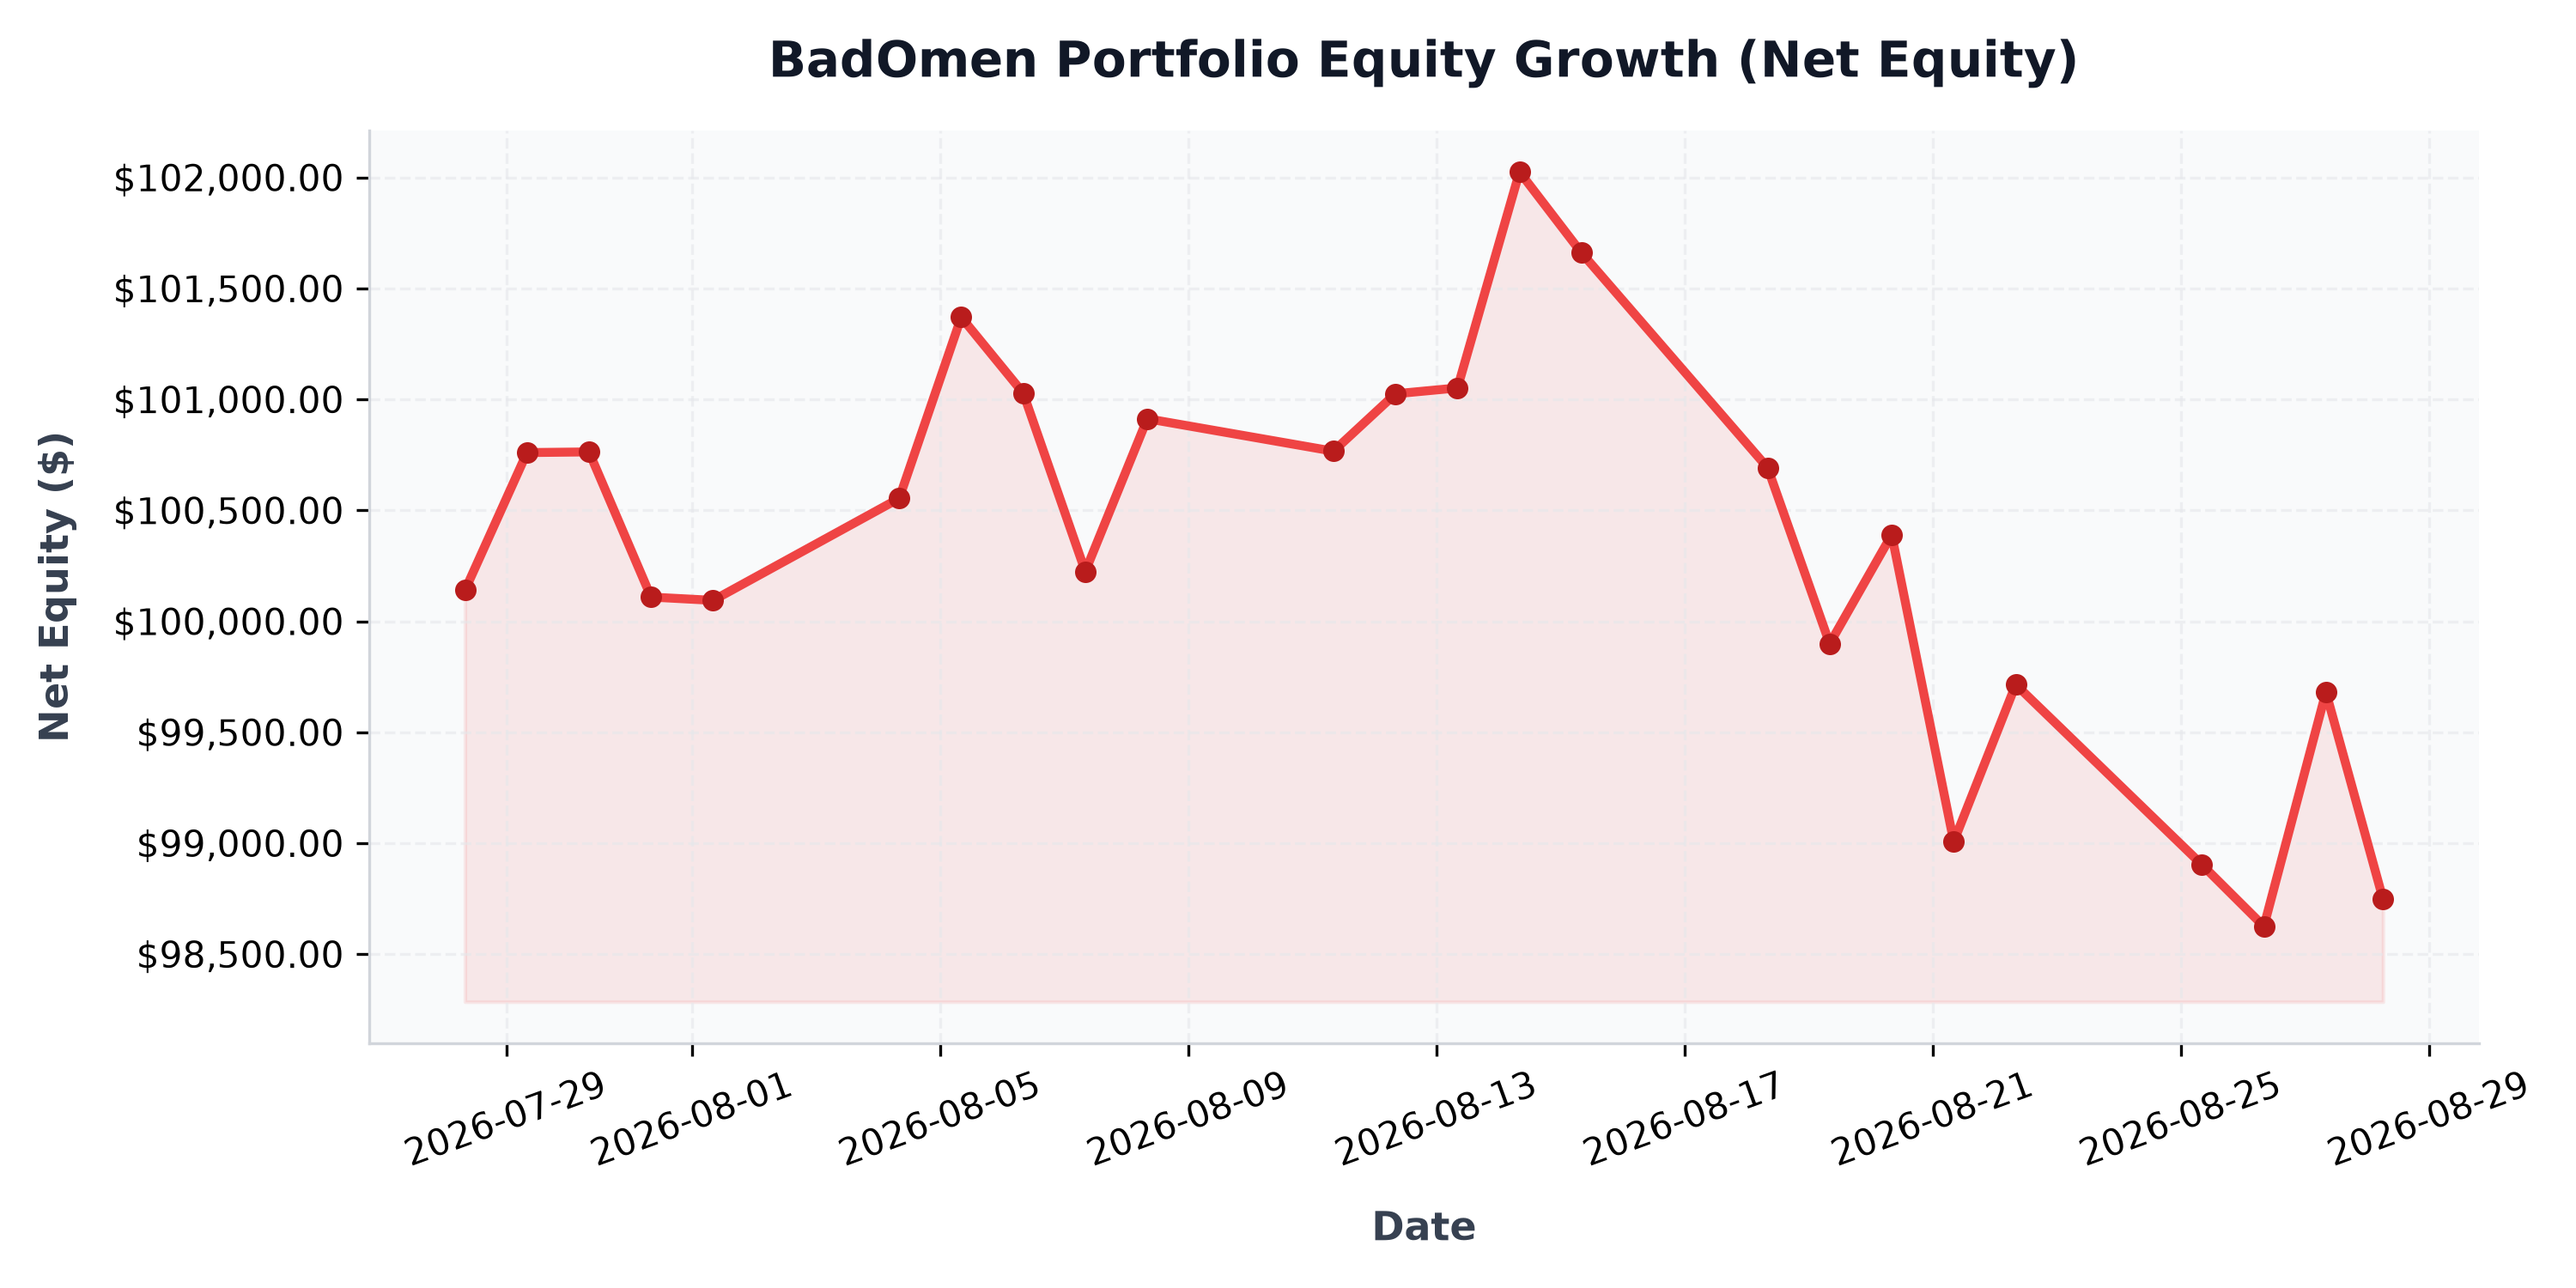
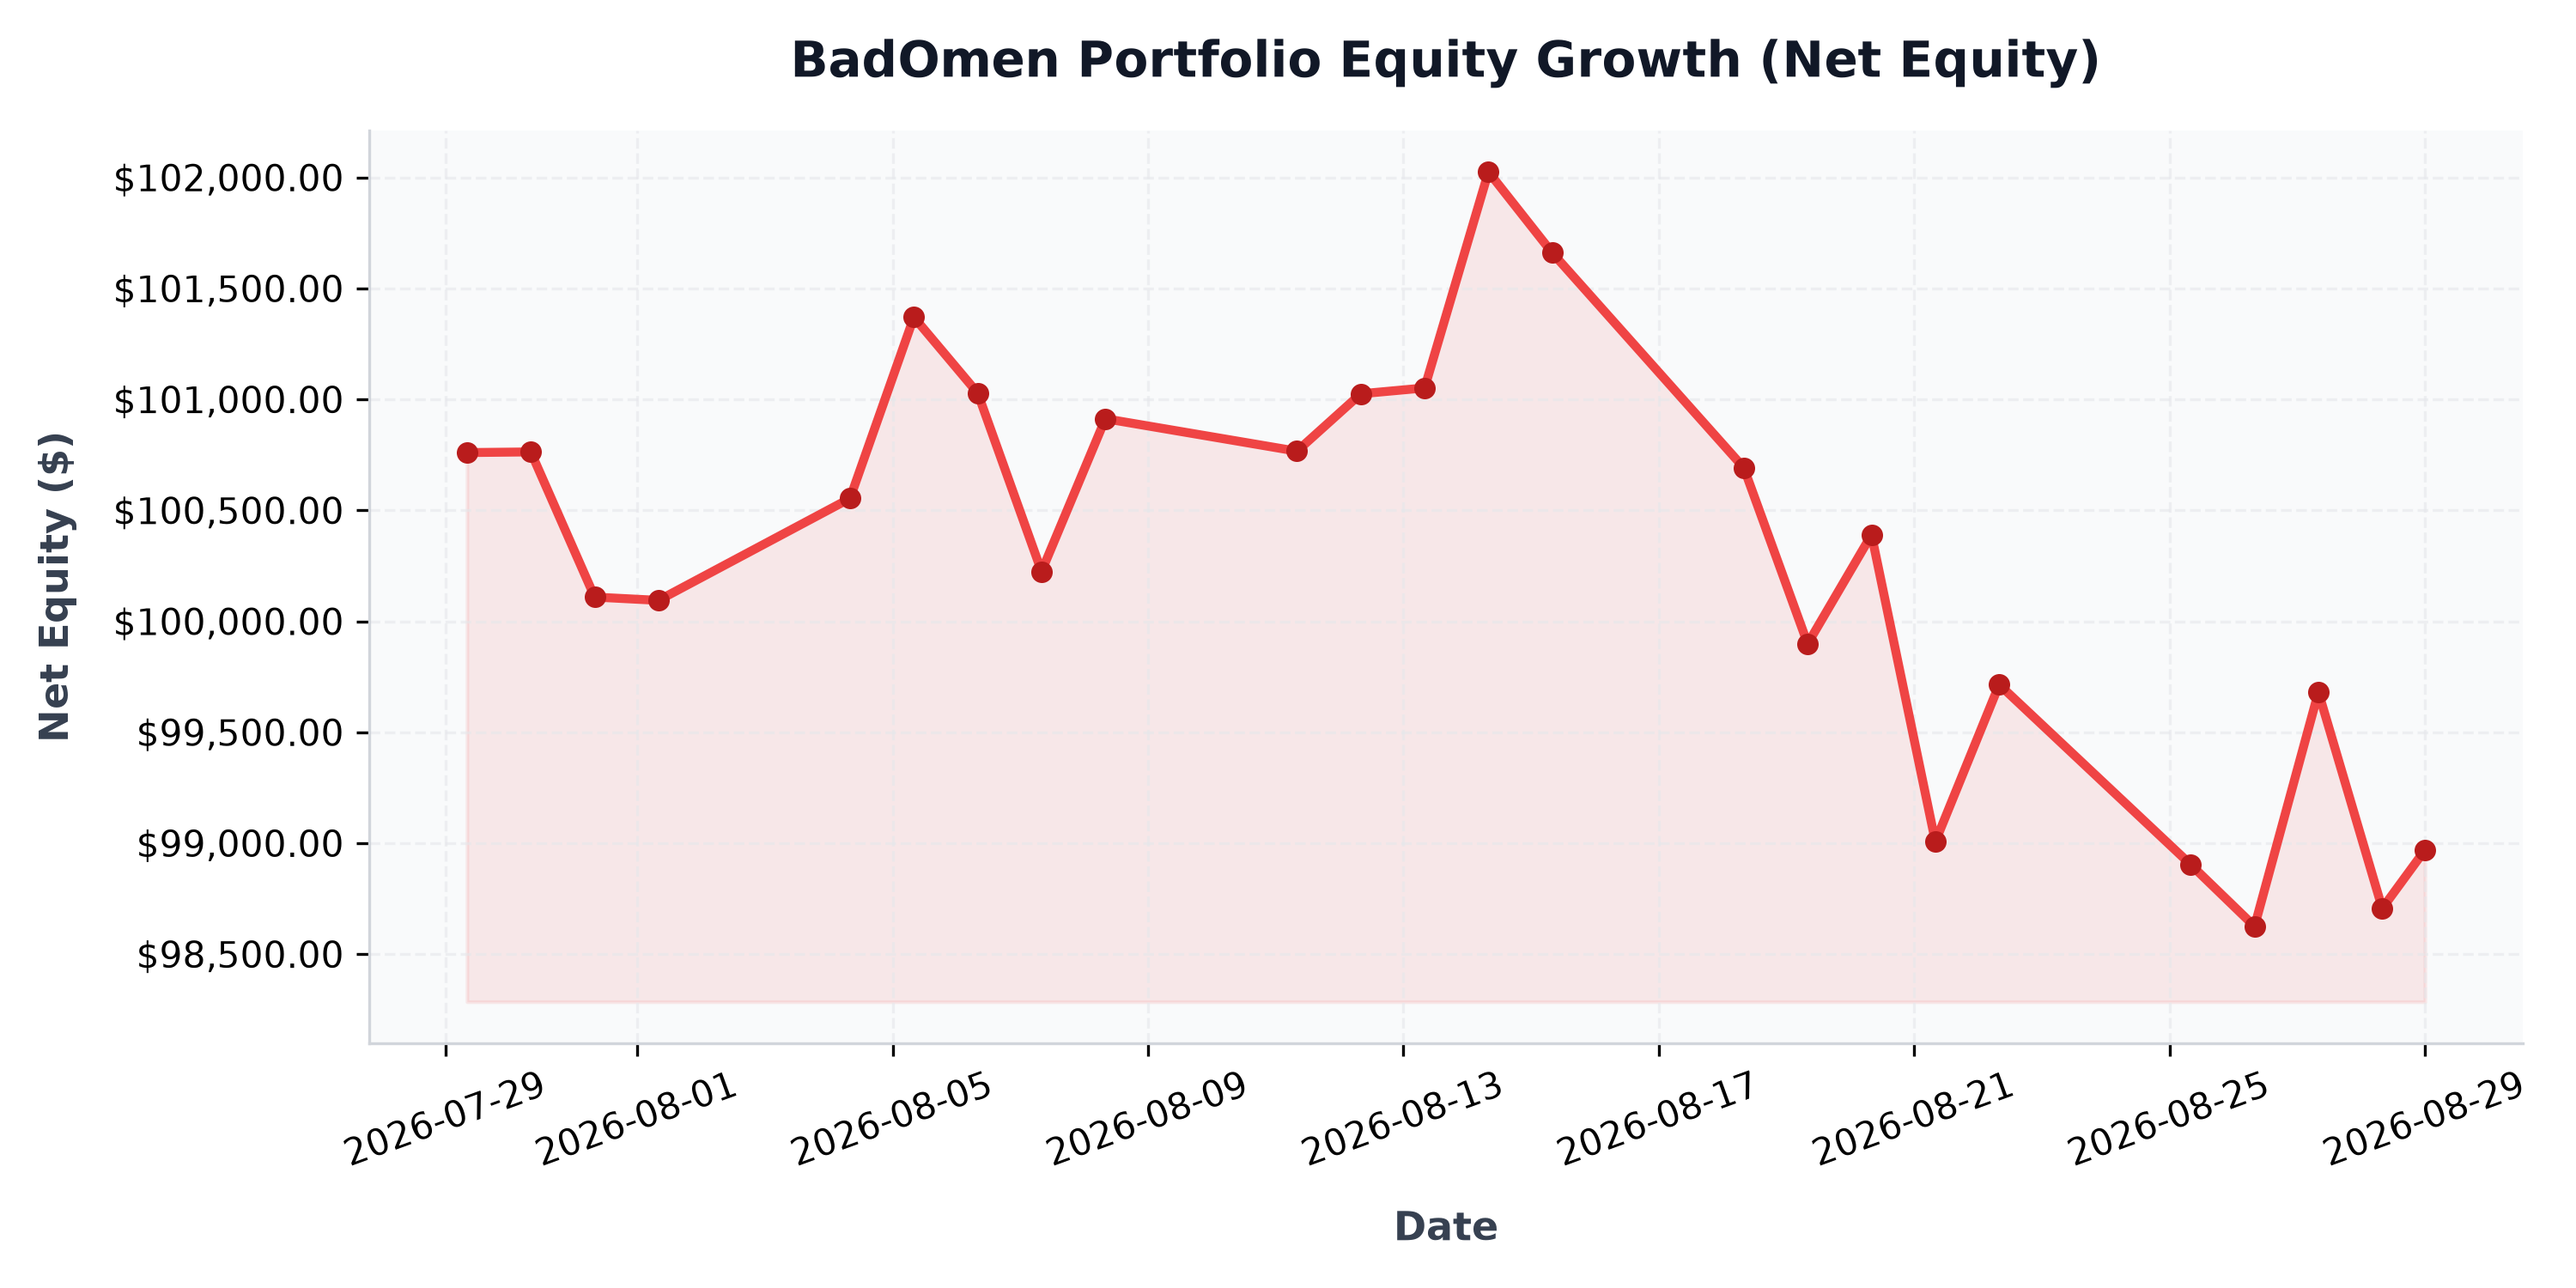
auto: daily portfolio status update - 2026-08-29 00:03:58

diff --git a/src/content/posts/portfolio-performance.md b/src/content/posts/portfolio-performance.md
@@ -1,6 +1,6 @@
 ---
 title: "BadOmen Algorithmic Portfolio Performance & PnL Report"
-pubDatetime: 2026-08-28T06:05:23.995278+08:00
+pubDatetime: 2026-08-29T00:03:36.366665+08:00
 description: "Live performance metrics, active holdings, and historic equity curve for the BadOmen automated paper trading portfolio."
 featured: true
 draft: false
@@ -16,11 +16,11 @@ Welcome to the live performance dashboard for **BadOmen**, our automated algorit
 ## 📊 Portfolio Summary
 | Performance Metric | Value | description |
 | :--- | :--- | :--- |
-| **Net Portfolio Equity** | **$98,748.25** | Total current liquidation value of cash and stock holdings |
-| **Total Unrealized P&L** | 🔴 **$-2,130.48** (-2.11%) | Total return of current open holdings |
+| **Net Portfolio Equity** | **$98,968.96** | Total current liquidation value of cash and stock holdings |
+| **Total Unrealized P&L** | 🔴 **$-1,884.25** (-1.87%) | Total return of current open holdings |
 | **Cash Balance** | $23,482.80 | Idle reserve currency available for limit orders |
-| **Buying Power** | $304,674.47 | Margin-backed buying power for entry allocations |
-| **Report Updated** | `2026-08-28 06:05:23 (SGT)` | Timestamp of daily execution and sync run |
+| **Buying Power** | $305,292.43 | Margin-backed buying power for entry allocations |
+| **Report Updated** | `2026-08-29 00:03:36 (SGT)` | Timestamp of daily execution and sync run |
 
 ## 📈 Net Equity Growth Curve
 The chart below illustrates the historical performance of the account starting from our baseline capital funding of $100,000.00.
@@ -35,36 +35,36 @@ The chart below illustrates the exposure of our currently held active positions 
 ## 💼 Current Position Holdings
 | Ticker | Industry | Shares Owned | Average Entry Cost | Current Price | Unrealized P&L | Return (%) |
 | :--- | :--- | :--- | :--- | :--- | :--- | :--- |
-| **AN** | Auto & Truck Dealerships | 5 | $188.51 | $198.75 | 🟢 +$51.21 | +5.43% |
-| **AVGO** | Semiconductors | 1 | $385.71 | $372.50 | 🔴 $-13.21 | -3.43% |
-| **BIRK** | Footwear & Accessories | 407 | $37.32 | $35.50 | 🔴 $-739.81 | -4.87% |
-| **BLBD** | Farm & Heavy Construction Machinery | 231 | $65.52 | $59.91 | 🔴 $-1,296.13 | -8.56% |
-| **BVN** | Other Precious Metals & Mining | 32 | $31.88 | $36.30 | 🟢 +$141.60 | +13.88% |
-| **CELH** | Beverages - Non-Alcoholic | 33 | $29.71 | $33.09 | 🟢 +$111.32 | +11.35% |
-| **CPRI** | Luxury Goods | 1042 | $14.55 | $13.18 | 🔴 $-1,429.42 | -9.43% |
-| **DUOL** | Software - Application | 14 | $131.04 | $142.32 | 🟢 +$157.86 | +8.61% |
-| **FIS** | Information Technology Services | 23 | $41.79 | $40.51 | 🔴 $-29.44 | -3.06% |
-| **GDDY** | Software - Infrastructure | 6 | $76.21 | $96.98 | 🟢 +$124.62 | +27.25% |
-| **GDS** | Information Technology Services | 30 | $32.77 | $33.51 | 🟢 +$22.20 | +2.26% |
-| **GGAL** | Banks - Regional | 17 | $56.04 | $42.91 | 🔴 $-223.20 | -23.43% |
-| **GOOGL** | Internet Content & Information | 3 | $319.44 | $340.74 | 🟢 +$63.90 | +6.67% |
-| **GPI** | Auto & Truck Dealerships | 3 | $316.15 | $262.04 | 🔴 $-162.33 | -17.11% |
-| **HUBS** | Software - Application | 8 | $221.18 | $252.00 | 🟢 +$246.55 | +13.93% |
-| **ITRI** | Scientific & Technical Instruments | 12 | $81.80 | $99.27 | 🟢 +$209.64 | +21.36% |
-| **KBR** | Engineering & Construction | 27 | $36.23 | $38.30 | 🟢 +$55.81 | +5.71% |
-| **META** | Internet Content & Information | 1 | $568.17 | $571.20 | 🟢 +$3.03 | +0.53% |
-| **NESR** | Oil & Gas Equipment & Services | 34 | $28.74 | $34.64 | 🟢 +$200.60 | +20.53% |
-| **NU** | Banks - Regional | 57 | $11.60 | $14.92 | 🟢 +$189.17 | +28.61% |
-| **ON** | Semiconductors | 10 | $90.45 | $74.65 | 🔴 $-158.05 | -17.47% |
-| **ORCL** | Software - Infrastructure | 5 | $181.95 | $152.07 | 🔴 $-149.40 | -16.42% |
-| **PATH** | Software - Infrastructure | 38 | $10.25 | $18.25 | 🟢 +$304.00 | +78.05% |
-| **PYPL** | Credit Services | 17 | $56.05 | $61.53 | 🟢 +$93.16 | +9.78% |
-| **QCOM** | Semiconductors | 15 | $193.68 | $165.20 | 🔴 $-427.27 | -14.71% |
-| **SMCI** | Computer Hardware | 22 | $29.25 | $38.16 | 🟢 +$196.02 | +30.46% |
-| **SRE** | Utilities - Diversified | 57 | $84.75 | $84.75 | 🔴 $-0.14 | -0.00% |
-| **T** | Telecom Services | 47 | $20.85 | $25.41 | 🟢 +$214.40 | +21.88% |
-| **WEN** | Restaurants | 257 | $8.02 | $7.86 | 🔴 $-42.08 | -2.04% |
-| **ZG** | Internet Content & Information | 31 | $31.35 | $36.35 | 🟢 +$154.90 | +15.94% |
+| **AN** | Auto & Truck Dealerships | 5 | $188.51 | $201.43 | 🟢 +$64.61 | +6.86% |
+| **AVGO** | Semiconductors | 1 | $385.71 | $366.63 | 🔴 $-19.08 | -4.95% |
+| **BIRK** | Footwear & Accessories | 407 | $37.32 | $35.82 | 🔴 $-609.57 | -4.01% |
+| **BLBD** | Farm & Heavy Construction Machinery | 231 | $65.52 | $58.91 | 🔴 $-1,524.82 | -10.08% |
+| **BVN** | Other Precious Metals & Mining | 32 | $31.88 | $35.57 | 🟢 +$118.24 | +11.59% |
+| **CELH** | Beverages - Non-Alcoholic | 33 | $29.71 | $32.35 | 🟢 +$87.03 | +8.88% |
+| **CPRI** | Luxury Goods | 1042 | $14.55 | $13.54 | 🔴 $-1,054.30 | -6.95% |
+| **DUOL** | Software - Application | 14 | $131.04 | $145.38 | 🟢 +$200.70 | +10.94% |
+| **FIS** | Information Technology Services | 23 | $41.79 | $41.60 | 🔴 $-4.37 | -0.46% |
+| **GDDY** | Software - Infrastructure | 6 | $76.21 | $97.12 | 🟢 +$125.49 | +27.44% |
+| **GDS** | Information Technology Services | 30 | $32.77 | $33.30 | 🟢 +$16.05 | +1.63% |
+| **GGAL** | Banks - Regional | 17 | $56.04 | $41.77 | 🔴 $-242.58 | -25.46% |
+| **GOOGL** | Internet Content & Information | 3 | $319.44 | $346.30 | 🟢 +$80.58 | +8.41% |
+| **GPI** | Auto & Truck Dealerships | 3 | $316.15 | $266.52 | 🔴 $-148.89 | -15.70% |
+| **HUBS** | Software - Application | 8 | $221.18 | $259.35 | 🟢 +$305.35 | +17.26% |
+| **ITRI** | Scientific & Technical Instruments | 12 | $81.80 | $97.31 | 🟢 +$186.12 | +18.96% |
+| **KBR** | Engineering & Construction | 27 | $36.23 | $37.95 | 🟢 +$46.49 | +4.75% |
+| **META** | Internet Content & Information | 1 | $568.17 | $575.87 | 🟢 +$7.70 | +1.35% |
+| **NESR** | Oil & Gas Equipment & Services | 34 | $28.74 | $34.94 | 🟢 +$210.80 | +21.57% |
+| **NU** | Banks - Regional | 57 | $11.60 | $14.27 | 🟢 +$152.27 | +23.03% |
+| **ON** | Semiconductors | 10 | $90.45 | $72.67 | 🔴 $-177.85 | -19.66% |
+| **ORCL** | Software - Infrastructure | 5 | $181.95 | $150.66 | 🔴 $-156.45 | -17.20% |
+| **PATH** | Software - Infrastructure | 38 | $10.25 | $18.17 | 🟢 +$300.96 | +77.27% |
+| **PYPL** | Credit Services | 17 | $56.05 | $54.20 | 🔴 $-31.45 | -3.30% |
+| **QCOM** | Semiconductors | 15 | $193.68 | $162.54 | 🔴 $-467.17 | -16.08% |
+| **SMCI** | Computer Hardware | 22 | $29.25 | $37.21 | 🟢 +$175.12 | +27.21% |
+| **SRE** | Utilities - Diversified | 57 | $84.75 | $85.19 | 🟢 +$25.23 | +0.52% |
+| **T** | Telecom Services | 47 | $20.85 | $26.02 | 🟢 +$242.75 | +24.77% |
+| **WEN** | Restaurants | 257 | $8.02 | $8.18 | 🟢 +$38.88 | +1.88% |
+| **ZG** | Internet Content & Information | 31 | $31.35 | $36.77 | 🟢 +$167.92 | +17.28% |
 
 ## 🔴 Recent Realized Trades
 | Ticker | Shares Sold | Entry Price | Exit Price | Strategy Trigger | Realized Return | Exit Date |
